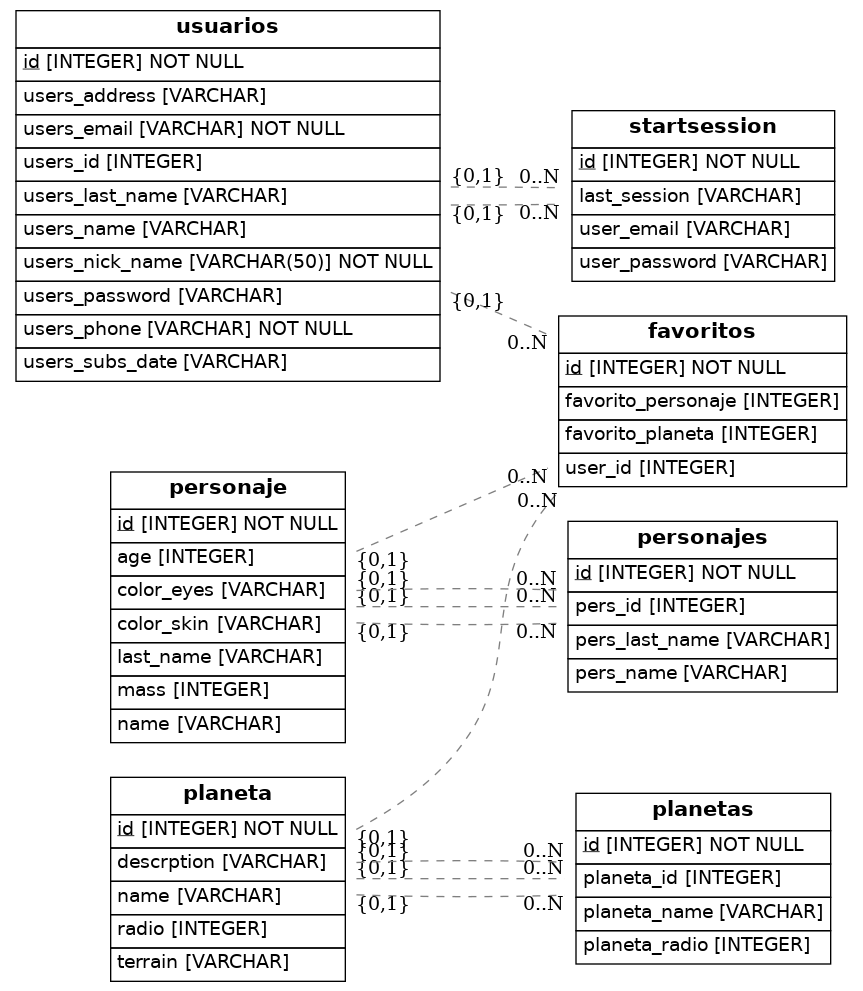
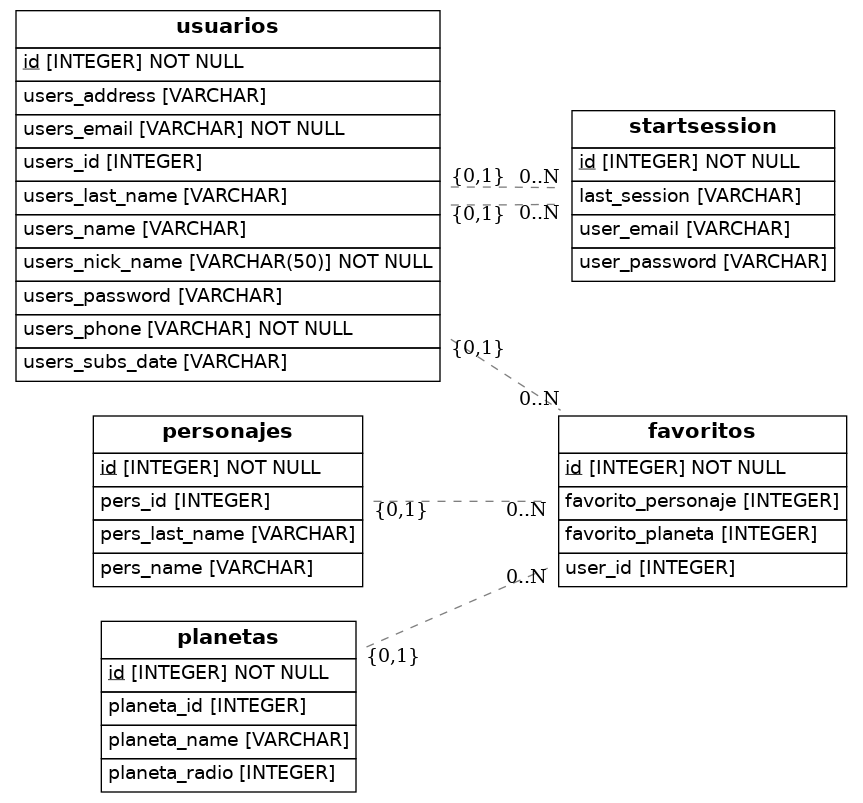
tercer commit

Changed region(s): [[0.0, 0.0, 0.9942, 0.9963], [0.6025, 0.8095, 0.9641, 0.9651], [0.5724, 0.7161, 0.6327, 0.7472]]

diff --git a/src/models.py b/src/models.py
@@ -27,45 +27,30 @@ class StartSession(Base):
     user_password =Column(String, ForeignKey('usuarios.user_password'))
     last_session = Column(String)
 
-class Personaje(Base):
-    __tablename__ = 'personaje'
-    id = Column(Integer, primary_key=True)
-    name = Column(String)
-    last_name = Column(String)
-    color_eyes = Column(String)
-    color_skin = Column(String)
-    age = Column(Integer)
-    mass = Column(Integer)
 
 class Personajes(Base):
     __tablename__ = 'personajes'
     id = Column(Integer, primary_key=True)
-    pers_id = Column(Integer, ForeignKey('personaje.id'))
-    pers_name = Column(String, ForeignKey('personaje.name'))
-    pers_last_name= Column(String, ForeignKey('personaje.last_name'))
+    pers_id = Column(Integer)
+    pers_name = Column(String)
+    pers_last_name= Column(String)
 
-class Planeta(Base):
-    __tablename__ = 'planeta'
-    id = Column(Integer, primary_key=True)
-    name = Column(String)
-    descrption = Column(String)
-    radio = Column(Integer)
-    terrain = Column(String)
+
 
 class Planetas(Base):
     __tablename__ = 'planetas'
     id = Column(Integer, primary_key=True)
-    planeta_id =Column(Integer, ForeignKey('planeta.id'))
-    planeta_name = Column(String, ForeignKey('planeta.name'))
-    planeta_radio = Column(Integer, ForeignKey('planeta.radio'))
+    planeta_id =Column(Integer)
+    planeta_name = Column(String)
+    planeta_radio = Column(Integer)
 
 
 class Favoritos(Base):
     __tablename__='favoritos'
     id = Column(Integer, primary_key=True)
     user_id = Column(Integer,ForeignKey('usuarios.user_id'))
-    favorito_planeta = Column(Integer, ForeignKey('planeta.id'))
-    favorito_personaje= Column(Integer, ForeignKey('personaje.id'))
+    favorito_planeta = Column(Integer, ForeignKey('planetas.id'))
+    favorito_personaje= Column(Integer, ForeignKey('personajes.id'))
 
 
 
